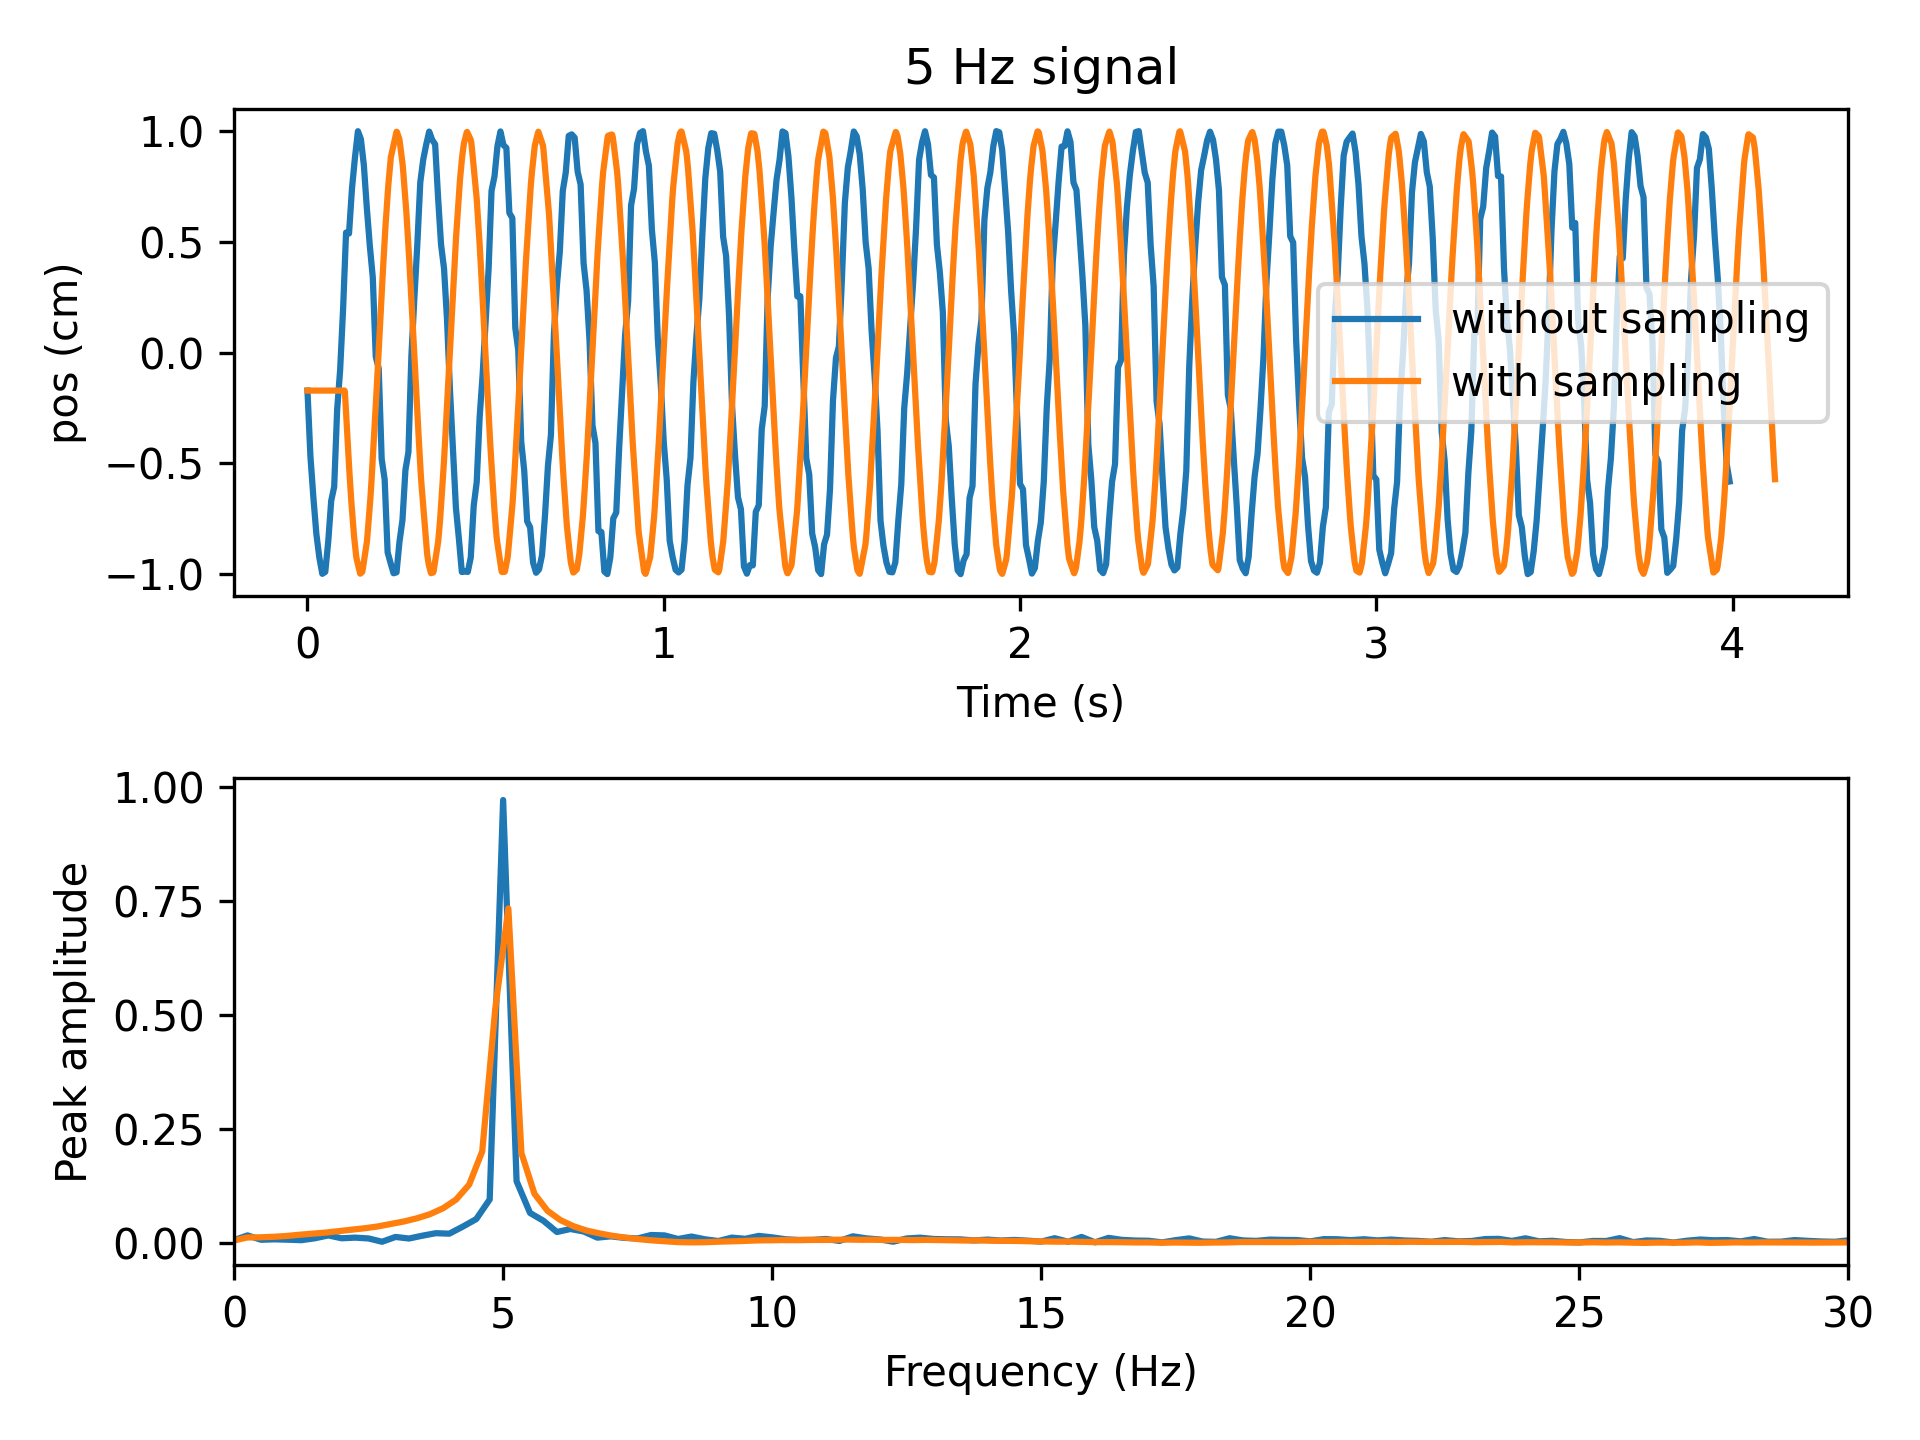
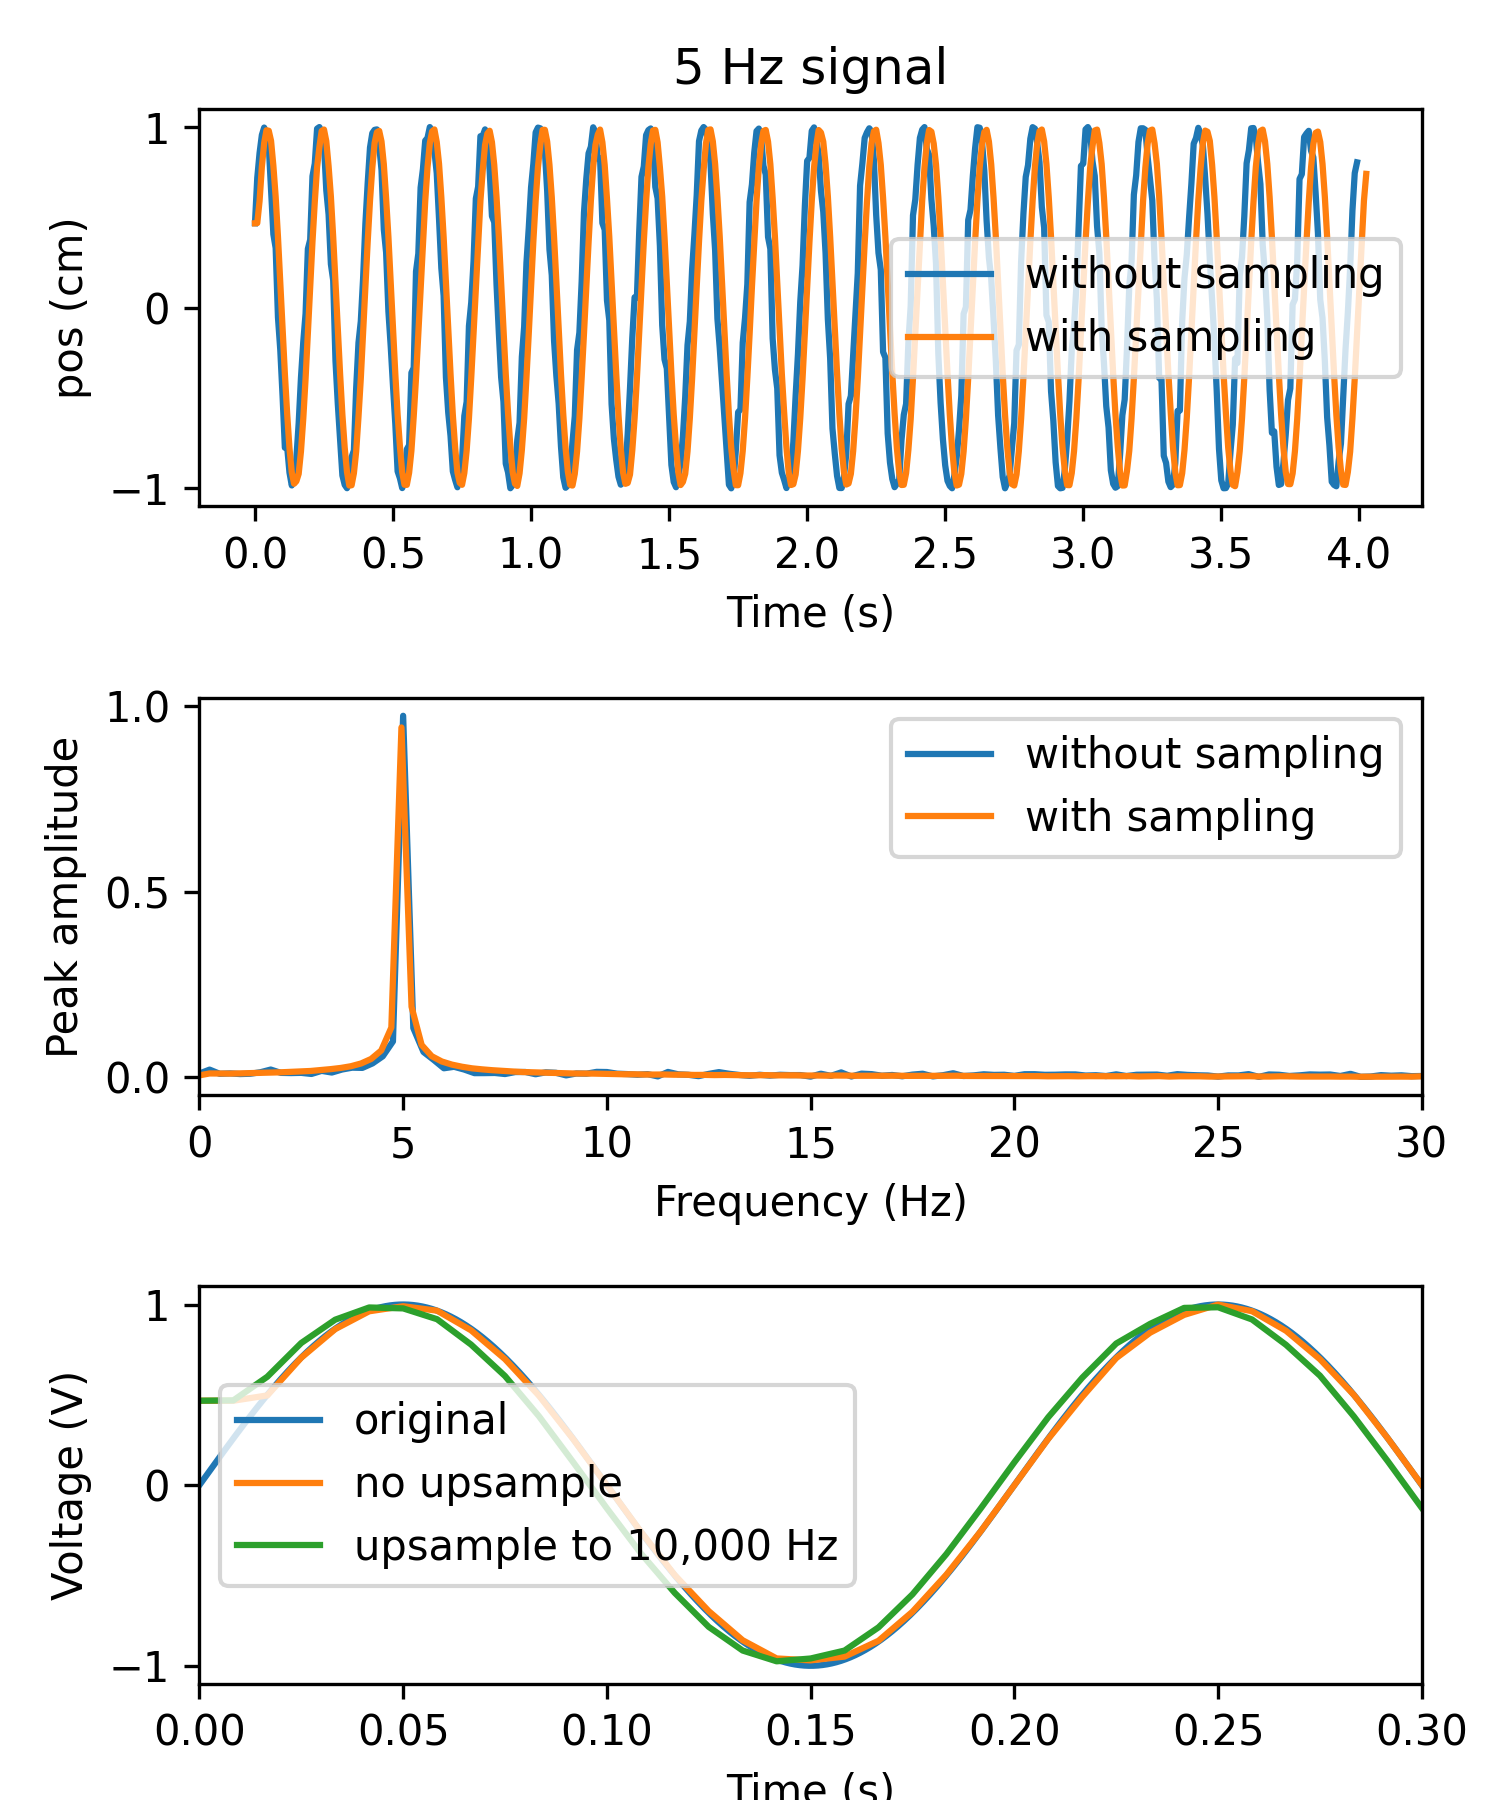
add kwargs to kinematics

Changed region(s): [[0.0307, 0.0312, 0.9813, 1.0], [0.4907, 0.4688, 0.5827, 0.5], [0.0613, 0.3125, 0.1227, 0.3438]]

diff --git a/aopy/data/bmi3d.py b/aopy/data/bmi3d.py
@@ -536,7 +536,7 @@ def get_ecube_digital_input_times(path, data_dir, ch):
 #####################
 # Preprocessed data #
 #####################
-def get_interp_kinematics(exp_data, exp_metadata, datatype='cursor', samplerate=1000):
+def get_interp_kinematics(exp_data, exp_metadata, datatype='cursor', samplerate=1000, **kwargs):
     '''
     Gets interpolated kinematic data from preprocessed experiment data to the desired 
     sampling rate. Cursor kinematics are returned in screen coordinates, while other 
@@ -552,6 +552,7 @@ def get_interp_kinematics(exp_data, exp_metadata, datatype='cursor', samplerate=
             For other kinematics, try to interp exp_data['task'][datatype]
         samplerate (float, optional): The desired output sampling rate in Hz. 
             Defaults to 1000.
+        **kwargs: Additional keyword arguments to pass to sample_timestamped_data()
 
     Returns:
         data_time (ns, ...): Kinematic data interpolated and filtered 
@@ -631,7 +632,6 @@ def get_interp_kinematics(exp_data, exp_metadata, datatype='cursor', samplerate=
         2023-10-20: Added support for 'targets' datatype
         2024-01-29: Removed kinematic filtering below 15 Hz. See :func:`~aopy.precondition.filter_kinematics`.
     '''
-    kwargs = {}
 
     # Fetch the available timestamps
     try:
@@ -662,8 +662,7 @@ def get_interp_kinematics(exp_data, exp_metadata, datatype='cursor', samplerate=
         raise ValueError(f"Unknown datatype {datatype}")
     
     # Interpolate
-    data_time = sample_timestamped_data(data_cycles, clock, samplerate, 
-                                        upsamplerate=10000, append_time=10, **kwargs)
+    data_time = sample_timestamped_data(data_cycles, clock, samplerate, append_time=10, **kwargs)
 
     return data_time
 
@@ -688,7 +687,7 @@ def get_velocity_segments(*args, norm=True, **kwargs):
     return get_kinematic_segments(*args, **kwargs, preproc=preproc)
 
 @lru_cache(maxsize=1)
-def get_kinematics(preproc_dir, subject, te_id, date, samplerate, preproc=None, datatype='cursor'):
+def get_kinematics(preproc_dir, subject, te_id, date, samplerate, preproc=None, datatype='cursor', **kwargs):
     '''
     Return all kinds of kinematics from preprocessed data. Caches the data for faster loading.
 
@@ -700,7 +699,8 @@ def get_kinematics(preproc_dir, subject, te_id, date, samplerate, preproc=None, 
         samplerate (float, optional): optionally choose the samplerate of the data in Hz. Default 1000.
         preproc (fn, optional): function mapping (position, fs) data to (kinematics, fs_new). For example,
             a smoothing function or an estimate of velocity from position
-        datatype (str, optional): type of kinematics to load. Defaults to 'cursor'.    
+        datatype (str, optional): type of kinematics to load. Defaults to 'cursor'.   
+        kwargs: additional keyword arguments to pass to get_interp_kinematics 
 
     Raises:
         ValueError: if the datatype is invalid
@@ -727,7 +727,7 @@ def get_kinematics(preproc_dir, subject, te_id, date, samplerate, preproc=None, 
         raw_kinematics, _ = interp_timestamps2timeseries(time, eye_data, samplerate)
     else:
         raw_kinematics = get_interp_kinematics(
-            data, metadata, datatype, samplerate=samplerate
+            data, metadata, datatype, samplerate=samplerate, **kwargs
         )
 
     time = np.arange(len(raw_kinematics))/samplerate
@@ -738,7 +738,8 @@ def get_kinematics(preproc_dir, subject, te_id, date, samplerate, preproc=None, 
 
     return kinematics, samplerate
 
-def get_kinematic_segment(preproc_dir, subject, te_id, date, start_time, end_time, samplerate, preproc=None, datatype='cursor'):
+def get_kinematic_segment(preproc_dir, subject, te_id, date, start_time, end_time, samplerate, 
+                          preproc=None, datatype='cursor', **kwargs):
     '''
     Return one segment of kinematics
 
@@ -753,20 +754,21 @@ def get_kinematic_segment(preproc_dir, subject, te_id, date, start_time, end_tim
         preproc (fn, optional): function mapping (position, fs) data to (kinematics, fs_new). For example,
             a smoothing function or an estimate of velocity from position
         datatype (str, optional): type of kinematics to load. Defaults to 'cursor'.    
+        kwargs: additional keyword arguments to pass to get_kinematics
 
     Returns:
         tuple: tuple containing:
             | **segment (nt, nch):** single kinematic segment from the given experiment after preprocessing
             | **samplerate (float):** the sampling rate of the kinematics after preprocessing
     '''
-    kinematics, samplerate = get_kinematics(preproc_dir, subject, te_id, date, samplerate, preproc, datatype)
+    kinematics, samplerate = get_kinematics(preproc_dir, subject, te_id, date, samplerate, preproc, datatype, **kwargs)
     assert kinematics is not None
 
     return get_data_segment(kinematics, start_time, end_time, samplerate), samplerate
 
 def get_kinematic_segments(preproc_dir, subject, te_id, date, trial_start_codes, trial_end_codes, 
                            trial_filter=lambda x:True, preproc=None, datatype='cursor',
-                           samplerate=1000):
+                           samplerate=1000, **kwargs):
     '''
     Loads x,y,z cursor, hand, or eye trajectories for each "trial" from a preprocessed HDF file. Trials can
     be specified by numeric start and end codes. Trials can also be filtered so that only successful
@@ -801,6 +803,7 @@ def get_kinematic_segments(preproc_dir, subject, te_id, date, trial_start_codes,
             a smoothing function or an estimate of velocity from position
         datatype (str, optional): type of kinematics to load. Defaults to 'cursor'.    
         samplerate (float, optional): optionally choose the samplerate of the data in Hz. Default 1000.
+        kwargs: additional keyword arguments to pass to get_kinematics
     
     Returns:
         tuple: tuple containing:
@@ -819,7 +822,7 @@ def get_kinematic_segments(preproc_dir, subject, te_id, date, trial_start_codes,
     trial_segments, trial_times = get_trial_segments(event_codes, event_times, 
                                                                   trial_start_codes, trial_end_codes)
     segments = [
-        get_kinematic_segment(preproc_dir, subject, te_id, date, t[0], t[1], samplerate, preproc, datatype)[0] 
+        get_kinematic_segment(preproc_dir, subject, te_id, date, t[0], t[1], samplerate, preproc, datatype, **kwargs)[0] 
         for t in trial_times
     ]
     trajectories = np.array(segments, dtype='object')
@@ -1590,7 +1593,7 @@ def tabulate_behavior_data_tracking_task(preproc_dir, subjects, ids, dates, meta
     return df
 
 def tabulate_kinematic_data(preproc_dir, subjects, te_ids, dates, start_times, end_times, 
-                            samplerate=1000, preproc=None, datatype='cursor'):
+                            samplerate=1000, preproc=None, datatype='cursor', **kwargs):
     '''
     Grab kinematics data from trials across arbitrary preprocessed files.
 
@@ -1604,7 +1607,8 @@ def tabulate_kinematic_data(preproc_dir, subjects, te_ids, dates, start_times, e
         samplerate (float, optional): optionally choose the samplerate of the data in Hz. Default 1000.
         preproc (fn, optional): function mapping (position, fs) data to (kinematics, fs_new). For example,
             a smoothing function or an estimate of velocity from position
-        datatype (str, optional): type of kinematics to tabulate. Defaults to 'cursor'.    
+        datatype (str, optional): type of kinematics to tabulate. Defaults to 'cursor'.  
+        kwargs (dict, optional): optional keyword arguments to pass to :func:`~aopy.preproc.get_kinematic_segment`  
 
     Returns:
         (ntrial,): list of tensors of (nt, nch) kinematics from each trial
@@ -1612,7 +1616,7 @@ def tabulate_kinematic_data(preproc_dir, subjects, te_ids, dates, start_times, e
 
     assert len(subjects) == len(te_ids) == len(dates) == len(start_times) == len(end_times)
 
-    segments = [get_kinematic_segment(preproc_dir, s, t, d, ts, te, samplerate, preproc, datatype)[0] 
+    segments = [get_kinematic_segment(preproc_dir, s, t, d, ts, te, samplerate, preproc, datatype, **kwargs)[0] 
                 for s, t, d, ts, te in zip(subjects, te_ids, dates, start_times, end_times)]
     trajectories = np.array(segments, dtype='object')
     return trajectories

diff --git a/tests/test_preproc.py b/tests/test_preproc.py
@@ -167,17 +167,17 @@ class DigitalCalcTests(unittest.TestCase):
         
         fps = 120
         nt = fps*duration
-        offset = 0.1 # timestamps start strictly after time zero
+        offset = 0.01 # timestamps start strictly after time zero
         framerate_error = 0.01*np.random.uniform(size=(nt,)) # 10 ms jitter
         drift = np.cumsum(0.0001*np.random.uniform(size=(nt,))) # 0.1 ms drift
         timestamps = offset + np.arange(nt)/fps + framerate_error + drift
         samples = (timestamps * samplerate).astype(int)
 
         frame_data = ground_truth_data[samples,:]
-        interp_samplerate = 1000
+        interp_samplerate = 120
         interp_data = sample_timestamped_data(frame_data, timestamps, interp_samplerate)
 
-        fig, ax = plt.subplots(2,1)
+        fig, ax = plt.subplots(3,1, figsize=(5,6))
         visualization.plot_timeseries(frame_data[:,0], fps, ax=ax[0])
         visualization.plot_timeseries(interp_data[:,0], interp_samplerate, ax=ax[0])
         ax[0].set_title(f'{freq} Hz signal')
@@ -189,10 +189,20 @@ class DigitalCalcTests(unittest.TestCase):
         ax[1].set_xscale('linear')
         ax[1].set_xlim(0,30)
         ax[1].set_ylabel('Peak amplitude')
+        ax[1].legend(['without sampling', 'with sampling'])
         plt.tight_layout()
 
+        # Compare with different upsampling rates
+        visualization.plot_timeseries(ground_truth_data[:,0], samplerate, ax=ax[2])
+        interp_data = sample_timestamped_data(frame_data, timestamps, interp_samplerate, upsamplerate=120)
+        visualization.plot_timeseries(interp_data[:,0], interp_samplerate, ax=ax[2])
+        interp_data = sample_timestamped_data(frame_data, timestamps, interp_samplerate, upsamplerate=120*100)
+        visualization.plot_timeseries(interp_data[:,0], interp_samplerate, ax=ax[2])
+        ax[2].set_xlim(0.0,0.3)
+        ax[2].legend(['original', 'no upsample', 'upsample to 10,000 Hz'])
+
         filename = 'sample_timestamped_data.png'
-        visualization.savefig(docs_dir, filename)
+        visualization.savefig(docs_dir, filename, transparent=False)
 
     def test_get_dch_data(self):
         dig_data = [0, 1, 0, 1, 1, 0]

diff --git a/aopy/preproc/base.py b/aopy/preproc/base.py
@@ -283,11 +283,14 @@ def sample_timestamped_data(data, timestamps, samplerate, upsamplerate=None, app
         f"have the same number of cycles ({len(data)} vs {len(timestamps)})")
 
     if upsamplerate is None:
-        upsamplerate = samplerate * 100
+        upsamplerate = samplerate * 10
+
+    assert upsamplerate >= samplerate, "Upsamplerate must be greater than or equal to samplerate"
 
     time = np.arange(int((timestamps[-1] + append_time)*upsamplerate))/upsamplerate # add extra time
     data_time, _ = interp_timestamps2timeseries(timestamps, data, sampling_points=time, interp_kind='linear', extrapolate=False, **kwargs)
-    data_time = precondition.downsample(data_time, upsamplerate, samplerate)
+    if upsamplerate > samplerate:
+        data_time = precondition.downsample(data_time, upsamplerate, samplerate)
     return data_time
 
 def get_dch_data(digital_data, digital_samplerate, dch):
